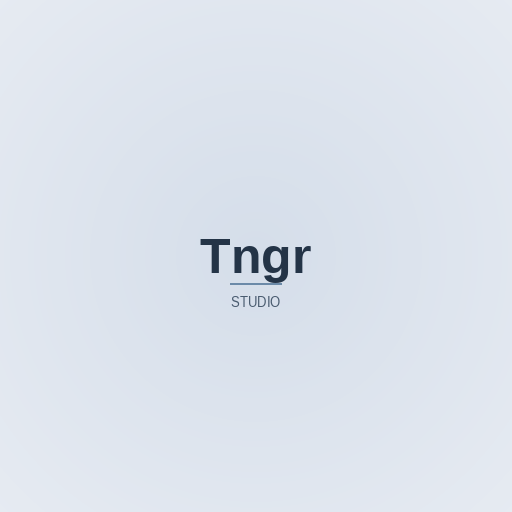
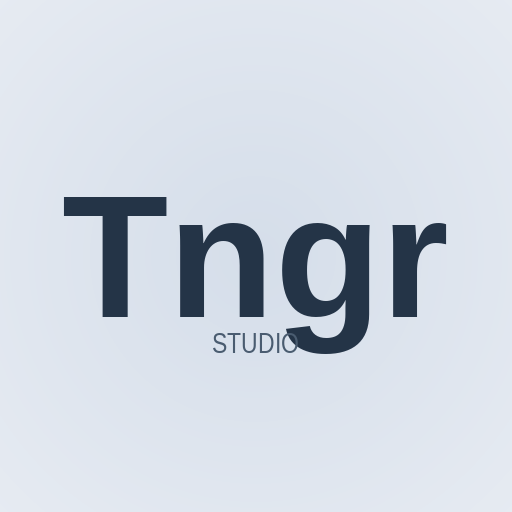
Anasayfayı sadeleştir, destek UX'ini iyileştir ve studio ikonunu güncelle.
Gönüllü destek kartı ve sürüm bilgisini anasayfadan kaldır; destek seçeneklerini hemen göster. Tngr Studio ikon wordmark'ını büyüt ve eski 2.0.0 release notlarını sil.

Changed region(s): [[0.3438, 0.4375, 0.875, 0.7188], [0.125, 0.375, 0.3438, 0.625]]

diff --git a/app/lib/screens/home_screen.dart b/app/lib/screens/home_screen.dart
@@ -3,11 +3,9 @@ import 'package:provider/provider.dart';
 
 import '../l10n/app_localizations.dart';
 import '../providers/app_state.dart';
-import '../widgets/app_info_footer.dart';
 import '../widgets/category_card.dart';
 import '../widgets/decorative_background.dart';
 import '../widgets/home_header.dart';
-import '../widgets/home_support_card.dart';
 import '../widgets/language_menu_button.dart';
 import '../widgets/mini_player_bar.dart';
 import '../widgets/screen_insets.dart';
@@ -112,7 +110,7 @@ class HomeScreen extends StatelessWidget {
                   _horizontalPadding,
                   8,
                   _horizontalPadding,
-                  0,
+                  ScreenInsets.listBottom(context, state),
                 ),
                 sliver: SliverGrid(
                   gridDelegate: SliverGridDelegateWithFixedCrossAxisCount(
@@ -141,21 +139,6 @@ class HomeScreen extends StatelessWidget {
                     childCount: categories.length,
                   ),
                 ),
-              ),
-              SliverPadding(
-                padding: EdgeInsets.fromLTRB(
-                  _horizontalPadding,
-                  10,
-                  _horizontalPadding,
-                  0,
-                ),
-                sliver: const SliverToBoxAdapter(child: HomeSupportCard()),
-              ),
-              SliverPadding(
-                padding: EdgeInsets.only(
-                  bottom: ScreenInsets.listBottom(context, state),
-                ),
-                sliver: const SliverToBoxAdapter(child: AppInfoFooter()),
               ),
             ],
           ),

diff --git a/app/lib/screens/support_screen.dart b/app/lib/screens/support_screen.dart
@@ -96,11 +96,6 @@ class _SupportScreenState extends State<SupportScreen> {
                     color: theme.colorScheme.onSurface.withValues(alpha: 0.65),
                   ),
                 )
-              else if (provider.loadingProducts)
-                const Padding(
-                  padding: EdgeInsets.symmetric(vertical: 24),
-                  child: Center(child: CircularProgressIndicator()),
-                )
               else ...[
                 if (!provider.hasPlayProducts)
                   Padding(
@@ -112,6 +107,11 @@ class _SupportScreenState extends State<SupportScreen> {
                         height: 1.4,
                       ),
                     ),
+                  ),
+                if (provider.loadingProducts && provider.tiers.isNotEmpty)
+                  const Padding(
+                    padding: EdgeInsets.only(bottom: 8),
+                    child: LinearProgressIndicator(minHeight: 2),
                   ),
                 ...provider.tiers.map(
                   (tier) => Padding(

diff --git a/app/lib/providers/support_purchase_provider.dart b/app/lib/providers/support_purchase_provider.dart
@@ -66,6 +66,7 @@ class SupportPurchaseProvider extends ChangeNotifier {
     if (!isSupported || _loadingProducts) return;
 
     _loadingProducts = true;
+    _tiers = _buildTiers(l10n, const {});
     notifyListeners();
 
     try {
@@ -75,13 +76,17 @@ class SupportPurchaseProvider extends ChangeNotifier {
 
       final byId = <String, ProductDetails>{};
       if (_billingAvailable) {
-        final response = await _service.queryProducts();
+        final response = await _service
+            .queryProducts()
+            .timeout(const Duration(seconds: 12));
         for (final product in response.productDetails) {
           byId[product.id] = product;
         }
       }
 
       _tiers = _buildTiers(l10n, byId);
+    } catch (_) {
+      _tiers = _buildTiers(l10n, const {});
     } finally {
       _loadingProducts = false;
       notifyListeners();

diff --git a/app/tools/generate_studio_icon.py b/app/tools/generate_studio_icon.py
@@ -44,20 +44,50 @@ def _soft_background(size: int) -> Image.Image:
     return img
 
 
+def _fit_font(path: str, text: str, target_width: float, start_size: int) -> ImageFont.FreeTypeFont | ImageFont.ImageFont:
+    size = start_size
+    while size > 12:
+        font = _font(path, size)
+        probe = ImageDraw.Draw(Image.new("RGB", (4, 4)))
+        bbox = probe.textbbox((0, 0), text, font=font)
+        if bbox[2] - bbox[0] <= target_width:
+            return font
+        size -= 2
+    return _font(path, 12)
+
+
 def _draw_wordmark(
     draw: ImageDraw.ImageDraw,
     cx: float,
     cy: float,
-    scale: float,
+    canvas_size: float,
     *,
-    title_size: float,
-    subtitle_size: float,
+    icon: bool,
 ) -> None:
-    title_font = _font("/usr/share/fonts/truetype/liberation/LiberationSans-Bold.ttf", int(scale * title_size))
-    sub_font = _font("/usr/share/fonts/truetype/liberation/LiberationSansNarrow-Regular.ttf", int(scale * subtitle_size))
-
     title = "Tngr"
     subtitle = "STUDIO"
+
+    if icon:
+        title_target = canvas_size * 0.78
+        title_font = _fit_font(
+            "/usr/share/fonts/truetype/liberation/LiberationSans-Bold.ttf",
+            title,
+            title_target,
+            int(canvas_size * 0.34),
+        )
+        sub_font = _font(
+            "/usr/share/fonts/truetype/liberation/LiberationSansNarrow-Regular.ttf",
+            max(14, int(canvas_size * 0.055)),
+        )
+    else:
+        title_font = _font(
+            "/usr/share/fonts/truetype/liberation/LiberationSans-Bold.ttf",
+            int(canvas_size * 0.12),
+        )
+        sub_font = _font(
+            "/usr/share/fonts/truetype/liberation/LiberationSansNarrow-Regular.ttf",
+            int(canvas_size * 0.038),
+        )
 
     title_bbox = draw.textbbox((0, 0), title, font=title_font)
     title_w = title_bbox[2] - title_bbox[0]
@@ -65,22 +95,20 @@ def _draw_wordmark(
 
     sub_bbox = draw.textbbox((0, 0), subtitle, font=sub_font)
     sub_w = sub_bbox[2] - sub_bbox[0]
+    sub_h = sub_bbox[3] - sub_bbox[1]
 
-    title_y = cy - scale * 0.10
+    block_h = title_h + sub_h + canvas_size * 0.03
+    title_y = cy - block_h / 2
     draw.text((cx - title_w / 2, title_y), title, font=title_font, fill=INK)
 
-    line_y = title_y + title_h + scale * 0.04
-    line_w = scale * 0.18
-    draw.line([(cx - line_w / 2, line_y), (cx + line_w / 2, line_y)], fill=ACCENT, width=max(2, int(scale * 0.008)))
-
-    sub_y = line_y + scale * 0.035
+    sub_y = title_y + title_h + canvas_size * 0.018
     draw.text((cx - sub_w / 2, sub_y), subtitle, font=sub_font, fill=INK_SOFT)
 
 
 def render_icon(size: int) -> Image.Image:
     img = _soft_background(size)
     draw = ImageDraw.Draw(img)
-    _draw_wordmark(draw, size * 0.5, size * 0.5, size * 0.55, title_size=0.18, subtitle_size=0.058)
+    _draw_wordmark(draw, size * 0.5, size * 0.5, size, icon=True)
     return img
 
 
@@ -105,8 +133,7 @@ def render_header(width: int, height: int) -> Image.Image:
         fill=BG_TOP,
     )
 
-    scale = height * 0.55
-    _draw_wordmark(draw, width * 0.22, height * 0.52, scale, title_size=0.22, subtitle_size=0.07)
+    _draw_wordmark(draw, width * 0.22, height * 0.52, height * 0.45, icon=False)
     return img
 
 